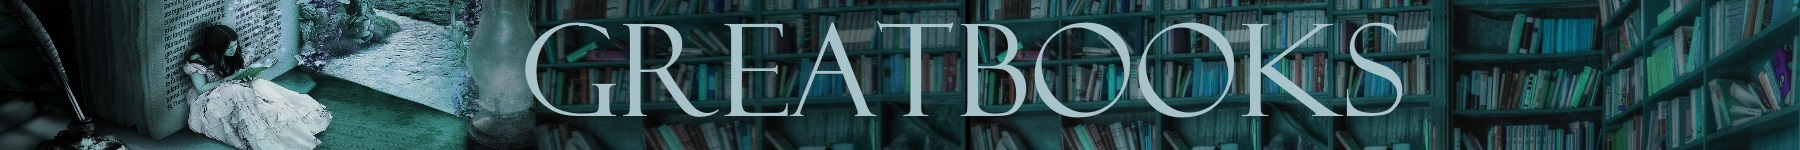
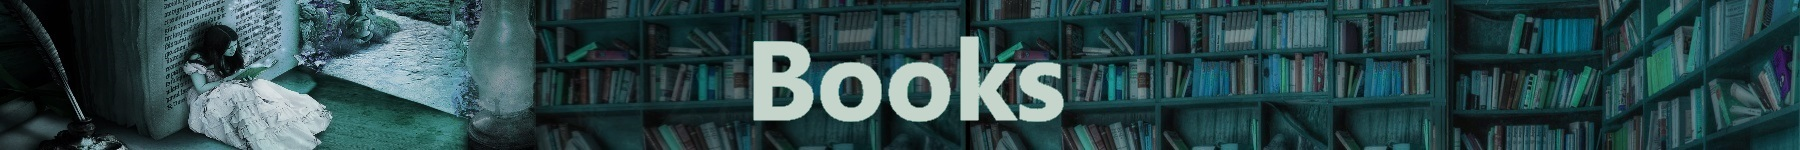
small changes

Changed region(s): [[0.28, 0.1333, 0.7778, 0.8267]]

diff --git a/books/index.html b/books/index.html
@@ -48,14 +48,14 @@
     <div class="container-fluid" style="margin-left:20px; margin-right:20px; min-width:450px;">
         <!-- title and intro-->
         <div class="row">
-            <div class="col-lg-12 col-md-12 col-sm-12 bg" style=" vertical-align: bottom; height:10em; ">
+            <div class="col-lg-12 col-md-12 col-sm-12 bg" style=" ">
             </div>
             <!--Col end-->
         </div>
         <!--row end-->
         <div class="row">
             <div class="col-lg-12 col-md-12 col-sm-12 round" style="background-color:#c5d5cb; vertical-align: bottom; height: 100%;">
-                <h3 style=" float:middle; text-align:center;">Easily catalog your home library - create your personal book database</h3>
+                <h4 style=" float:middle; text-align:center; font-size:2em;">Easily catalog your home library - create your personal book database</h4>
                 <br>
                 <!--status-->
                 <section id="status_field_v">
@@ -69,12 +69,11 @@
         <!--row end-->
     </div>
     <!--Container end-->
-    <br>
     
-    <div class="container-fluid round " style="margin-left:20px; margin-right:20px; min-width:450px;">
+    <div class="container-fluid round menu_bg" style="margin-left:20px; margin-right:20px; min-width:450px; margin-top:5px;">
         <!--menu-->
-        <div class="row" style="min-height:5em; background-color:#c5d5cb; vertical-align: bottom;">
-            <div class="col-lg-12 col-md-12 col-sm-12 round" style=" background-color:#c5d5cb; vertical-align: bottom;">
+        <div class="row" style="border-radius:4px; border-bottom:none; min-height:5em; background-color:#c5d5cb; vertical-align: bottom;">
+            <div class="col-lg-12 col-md-12 col-sm-12 round" >
                 <div id="centeredmenu">
                     <ul>
                         <li><a href="#" onclick="openCity('viewBook')">View saved books</a></li>
@@ -84,20 +83,21 @@
                 </div> <!--center end-->
             </div> <!--Col end-->
         </div> <!--row end-->
-    </div><!--Container end-->   
+    </div><!--Container end-->  
+    
     <div id="addBook" class="w3-container city round" > <!-- START ADD -->
-          <div class="container-fluid" style=" margin-left:20px; margin-right:20px; min-width:450px; ">
+          <div class="container-fluid round " style=" margin-left:20px; margin-right:20px; min-width:450px; border-radius:4px; ">
             <!-- Book title and author fields and buttons for add and search-->
-            <div class="row" style=" background-color:#c5d5cb;">
-                <div class="col-lg-5 col-md-11 col-sm-12 round" style=" padding-right:15px; margin-bottom:20px; padding-left:15px;  margin-right:15px; margin-left:15px; background-color:#9fa8a3; vertical-align: bottom; min-height:25em; max-width:500px;">
+            <div class="row" style=" background-color:#c5d5cb; border-radius:4px; margin-top:5px;">
+                <div class="col-lg-5 col-md-11 col-sm-12 round" style=" padding-right:15px; margin-bottom:20px; padding-left:15px;  margin-right:15px; margin-left:15px; background-color:#9fa8a3; vertical-align: bottom; min-height:25em; max-width:500px; margin-top:5px;">
                     <h2 style="border-radius: 8px; color: black; padding:5px; height:2em; background-color:#9fa8a3;">
                         Add a new book
                     </h2>
-                    <h4 style="color:black;">
+                    <h4 style="color:black; font-size:1em;">
                         You can here add a specific book to the database. <br>Specify title, author or both and press the button.
                     </h4>
                     <br>
-                    <div class="bg_menu round">
+                    <div class="bg_menu round menu_bg">
                         <label id='labelA' for="author">Author</label>
                         <input type="text" class="form-control"  placeholder="" id="author">
                         <label id='labelB' for="title">Title</label>
@@ -108,7 +108,7 @@
                     </div>
                 </div>
                 <!--Col end-->
-                <div class="col-lg-7 col-md-12 col-sm-12" style=" background-color:#c5d5cb; vertical-align: bottom;">
+                <div class="col-lg-7 col-md-12 col-sm-12" style="display:none; background-color:#c5d5cb; vertical-align: bottom; border-radius:4px;">
                 <!--review-->
                 </div>
                 <!--Col end-->
@@ -118,18 +118,18 @@
         <!--Container end-->
     </div> <!-- Add end -->
     <div id="searchBook" class="w3-container city" style="display:none"> <!-- START SEARCH -->
-          <div class="container-fluid" style="margin-left:20px; margin-right:20px; min-width:450px;">
+          <div class="container-fluid" style="margin-left:20px; margin-right:20px; min-width:450px; ">
             <!-- Book title and author fields and buttons for add and search-->
-            <div class="row" style=" background-color:#c5d5cb;">
-                <div class="col-lg-5 col-md-12 col-sm-12 round" style="padding-left:15px; margin-bottom:20px; margin-right:15px;  margin-bottom: 19px; margin-left:15px; background-color:#9fa8a3; vertical-align: bottom; min-height:25em; max-width:500px;">
+            <div class="row" style=" background-color:#c5d5cb; margin-top:5px; border-radius:4px;">
+                <div class="col-lg-5 col-md-12 col-sm-12 round" style="padding-left:15px; margin-bottom:20px; margin-right:15px;  margin-bottom: 19px; margin-left:15px; background-color:#9fa8a3; vertical-align: bottom; min-height:25em; max-width:500px; margin-top:5px;">
                     <h2 style="color: black; border-radius: 8px; padding:5px; height:2em; background-color:#9fa8a3;">
                         Search for a book
                     </h2>
-                    <h4 style="color:black;">
+                    <h4 style="color:black; font-size:1em;">
                         Not sure which book you want to add? <br>Search for any book by title, author or both.
                     </h4>
                     <br>
-                    <div class="bg_menu round" id="search-menu">
+                    <div class="bg_menu round menu_bg " id="search-menu">
                         <label id='labelC' for="author">Author</label>
                         <input type="text" class="form-control" style="max-width=40px;" placeholder="" id="S_author">
                         <label id='labelD' for="title">Title</label>
@@ -165,23 +165,24 @@
     <div id="viewBook" class="w3-container city" style="display:none"> <!-- START VIEW -->
           <div class="container-fluid" style="margin-left:20px; margin-right:20px; min-width:450px;">
             <!-- Book title and author fields and buttons for add and search-->
-            <div class="row" style=" background-color:#c5d5cb;min-height:26.5em;">
-                <div class="col-lg-5 col-md-12 col-sm-12 round " style=" margin-bottom:20px; padding-left:15px; margin-right:15px; margin-left:15px; margin-bottom: 10px; padding-bottom:0px; background-color:#9fa8a3; vertical-align: bottom; min-height:25em; max-width:500px;">
+            <div class="row" style=" background-color:#c5d5cb;min-height:26.5em; margin-top:5px; border-radius:4px;">
+                <div class="col-lg-5 col-md-12 col-sm-12 round " style=" margin-bottom:20px; padding-left:15px; margin-right:15px; margin-left:15px; margin-bottom: 10px; padding-bottom:0px; background-color:#9fa8a3; vertical-align: bottom; min-height:25em; max-width:500px; margin-top:5px;">
                     <h2 style="border-radius: 8px; color:black; padding:5px; height:2em; background-color:#9fa8a3;">
                         View saved books
                     </h2>
-                    <h4 id="heading_view" style="color:black;">
+                    <h4 id="heading_view" style="font-size:1em; color:black;">
                         Here you can view all the books that are saved. <br>Press the button to start.
                     </h4>
                     <br>
-                    <div class="bg_menu round">
+                    <div class="bg_menu round menu_bg ">
                         <div id="input_fields" class="round"> 
-                            <h4 id="heading_view" style=" margin-left: 5px; padding-top:5px; color:black;">You can here change or delete a book. <br> Choose a book from the list & press the button to commit.</h4>
+                            <h4 id="heading_view" style=" font-size:1em; margin-left: 5px; padding-top:5px; color:black;">You can here change or delete a book. <br> Choose a book from the list & press the button to commit.</h4>
                             <br>
                             <label id='labelE' for="author">Author</label>
                             <input type="text" class="form-control" style="max-width=40px;" placeholder="" id="V_author">
                             <label id='labelF' for="title">Title</label>
                             <input type="text" style="max-width=40px;" class="form-control" placeholder="" id="V_title" >
+                            <br>
                             <button type="button" class="btn-danger btn-sm" id='change'><i class=" small material-icons" style=" display: table-cell;vertical-align: middle; float: right; color:black;"> mode_edit</i></button>
                             <button type="button" class="btn-danger btn-sm" id='delete'><i class=" small material-icons" style=" display: table-cell;vertical-align: middle; float: right; color:black;">delete </i></button>    
                         </div>       

diff --git a/books/styles.css b/books/styles.css
@@ -7,8 +7,26 @@ font-family: 'Gudea', sans-serif;}
     margin-left:20px; 
     margin-right:20px; 
     min-width:530px; 
-    background-image: url(books-wallpaper-books-to-read-28990406-1024-768.jpg);
+    background-image: url(books-wallpaper-books-to-read-28990406-1024-768.jpg);;
 }
+
+.menu_bg {
+    background-image: url(bg_menu.jpg);background-size: contain;
+}
+
+/* The background image */
+
+.bg {
+    background-image: url(bg_fairy_small.jpg); 
+    background-size: cover;
+    background-repeat: no-repeat;
+    width: 100%;
+    float:none;
+    height:0; 
+    padding-top: 8.33%;
+    border-radius: 4px;
+    margin-bottom: 5px;
+  }
 
 /* the labels */
 
@@ -80,7 +98,8 @@ font-family: 'Gudea', sans-serif;}
 
 #V_author {
     display: inline;
-    width: ;
+     width: 35%;
+    
     height:2em;
     padding: 6px 12px;
     font-size: 14px;
@@ -93,7 +112,8 @@ font-family: 'Gudea', sans-serif;}
 
 #V_title {
     display: inline;
-    width: ;
+    width: 35%;
+    
     height:2em;
     padding: 6px 12px;
     font-size: 14px;
@@ -160,15 +180,6 @@ font-family: 'Gudea', sans-serif;}
     background-color: #e3e0cf;
     border-color: #000;
     color:#000;}
-
-
-
-/* The background image */
-
-.bg {background-image: url(bg_fairy_small.jpg); background-repeat: no-repeat; background-size: cover;
-  }
-
-
 
 
 /* List */
@@ -239,10 +250,9 @@ th {height: 3em;}
    float:left;
    width:100%;
    background:#c5d5cb;
-   border-bottom:4px solid #000;
    overflow:hidden;
    position:relative;
-    min-width: 475px;
+   min-width: 475px;
 }
 #centeredmenu ul {
    clear:left;
